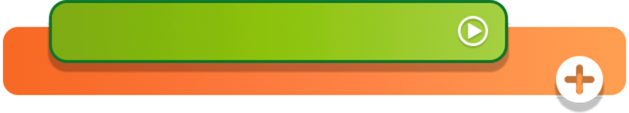
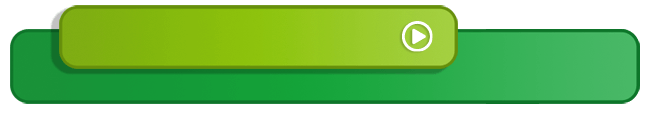
'装备库更新完成'

diff --git a/src/component/EuipItem.ts b/src/component/EuipItem.ts
@@ -8,28 +8,29 @@ class EquipItem extends eui.Group {
     }
 
     private init() {
-        let listBg: egret.Bitmap
+        let bg_name = ''
         if (this.data.url.endsWith('pdf')) {
-            listBg = Util.createBitmapByName('equip_bg_pdf_png')
+            bg_name = this.data.catid > 14 ? 'equip_bg_pdf_png' : 'equip_bg_alm_pdf_png'
         } else {
-            listBg = Util.createBitmapByName('equip_bg_mp4_png')
+            bg_name = this.data.catid > 14 ? 'equip_bg_mp4_png' : 'equip_bg_alm_mp4_png'
         }
+        let listBg: egret.Bitmap = Util.createBitmapByName(bg_name)
         this.width = listBg.width
         this.height = listBg.height
         this.addChild(listBg)
 
         let title = new egret.TextField()
-        if (this.data.title.length >= 13) {
-            title.text = this.data.title.substr(0, 11) + '...'
+        if (this.data.title.length >= 11) {
+            title.text = this.data.title.substr(0, 9) + '...'
         } else {
             title.text = this.data.title
         }
 
         title.size = 30
-        title.width = 380
+        title.width = 300
         title.textColor = 0xffffff
-        title.x = 70
-        title.y = 18
+        title.x = 90
+        title.y = 26
         this.addChild(title)
 
         let time = new egret.TextField()
@@ -41,7 +42,7 @@ class EquipItem extends eui.Group {
             time.text = y + '年' + m + '月' + d + '日'
         }
         time.textColor = 0xffffff
-        time.x = 420
+        time.x = 500
         time.y = 75
         time.size = 16
         this.addChild(time)

diff --git a/src/model/Common.ts b/src/model/Common.ts
@@ -12,8 +12,8 @@ enum ShareType {
 
 const EquipmentConfigs = [
     { id: 0, icon: '', bg: '', name: '搜索结果', type: 0, qaids: 51 },
-    { id: 1, icon: '', bg: 'equip_bg_1_png', name: '最新内容', type: 15, qaids: '51' },
-    { id: 2, icon: '', bg: 'equip_bg_2_png', name: '疾病档案', type: 16, qaids: '49' },
-    { id: 3, icon: '', bg: 'equip_bg_3_png', name: '产品资料', type: 17, qaids: '46, 48, 50, 51' },
-    { id: 4, icon: '', bg: 'equip_bg_4_png', name: '竞品分析', type: 18, qaids: '47' }
+    { id: 1, icon: '', bg: 'equip_bg_1_png', name: '最新内容', type: [15, 11], qaids: '51' },
+    { id: 2, icon: '', bg: 'equip_bg_2_png', name: '疾病档案', type: [16, 12], qaids: '49' },
+    { id: 3, icon: '', bg: 'equip_bg_3_png', name: '产品资料', type: [17, 13], qaids: '46, 48, 50, 51' },
+    { id: 4, icon: '', bg: 'equip_bg_4_png', name: '竞品分析', type: [18, 14], qaids: '47' }
 ]

diff --git a/src/scene/EquipmentScene.ts b/src/scene/EquipmentScene.ts
@@ -21,12 +21,12 @@ class EquipmentScene extends Scene {
             }
             let bg: egret.Bitmap = Util.createBitmapByName(config.bg)
             this.addChild(bg)
-            if (config.type % 2 != 0) {
+            if (config.type[0] % 2 != 0) {
                 bg.x = this.stage.stageWidth / 2 - bg.width - 30
             } else {
                 bg.x = this.stage.stageWidth / 2 + 30
             }
-            if (config.type < 17) {
+            if (config.type[0] < 17) {
                 bg.y = y
             } else {
                 bg.y = y + bg.height
